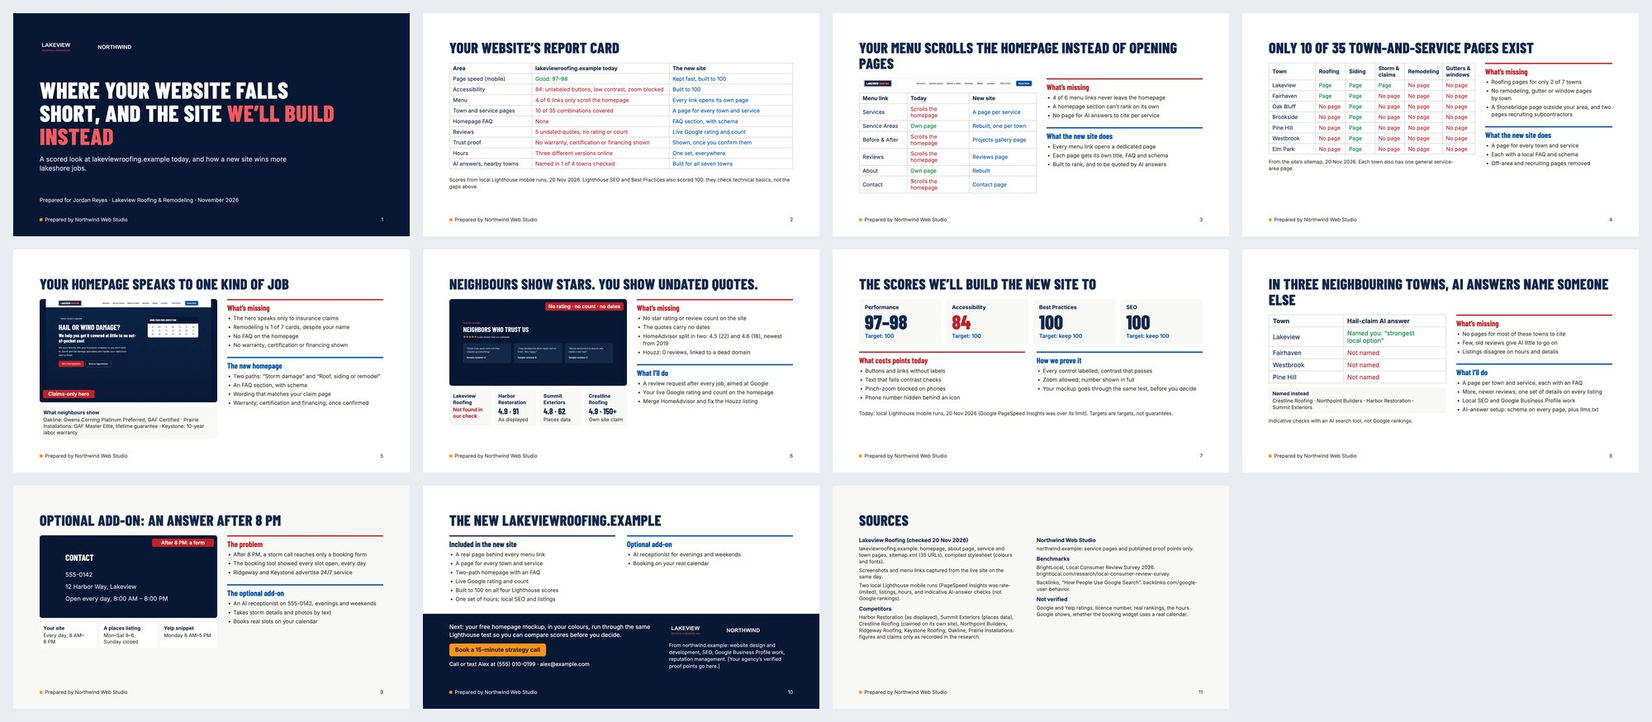
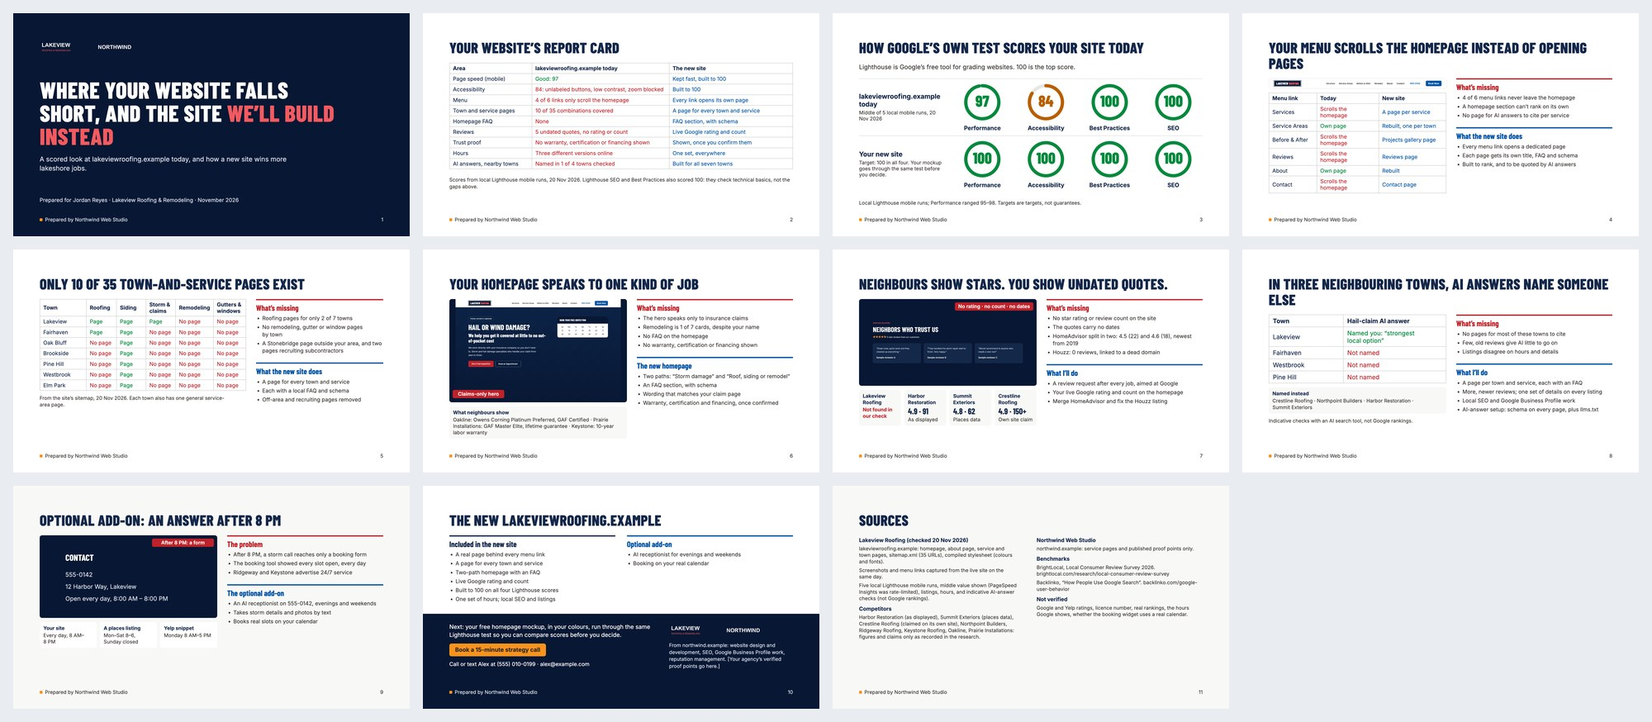
Scores slide moves to slide 3, as Lighthouse score rings
- Report card (slide 2) then scores (slide 3), so the numbers land in the
  first minute. Rings use Lighthouse colours; numbers are SVG text so they
  stay centred in any viewer.
- scripts/lighthouse_runs.py: run Lighthouse 3-5 times, report the middle
  score and range (Performance drifts between runs and days).
- Research step checks technical basics: robots.txt, sitemap, soft 404s,
  page titles, favicon, share image, business email.
- No visible placeholders on slides; reviews are shown by the agency and
  asked for by the owner.

diff --git a/reference/slides/scores.html b/reference/slides/scores.html
@@ -1,20 +1,13 @@
 <section id="scores">
 <div class="stack">
-<h2 class="title">The scores we’ll build the new site to</h2>
-<div class="score-row">
-<div class="score-card"><p class="sc-label">Performance</p><p class="sc-today">97–98</p><p class="sc-target">Target: 100</p></div>
-<div class="score-card"><p class="sc-label">Accessibility</p><p class="sc-today bad">84</p><p class="sc-target">Target: 100</p></div>
-<div class="score-card"><p class="sc-label">Best Practices</p><p class="sc-today">100</p><p class="sc-target">Target: keep 100</p></div>
-<div class="score-card"><p class="sc-label">SEO</p><p class="sc-today">100</p><p class="sc-target">Target: keep 100</p></div>
+<h2 class="title">How Google’s own test scores your site today</h2>
+<p class="small" style="font-size:30px">Lighthouse is Google’s free tool for grading websites. 100 is the top score.</p>
+<div>
+<div class="sc-row"><div class="sc-head"><p class="sc-name">lakeviewroofing.example today</p><p class="sc-sub">Middle of 5 local mobile runs, 20 Nov 2026</p></div><div class="ring"><svg width="190" height="190" viewBox="0 0 190 190"><circle cx="95" cy="95" r="80" fill="none" stroke="#E6E6E2" stroke-width="16"/><circle cx="95" cy="95" r="80" fill="none" stroke="#05893E" stroke-width="16" stroke-linecap="round" stroke-dasharray="487.6 502.7" transform="rotate(-90 95 95)"/><text x="95" y="97" text-anchor="middle" dominant-baseline="middle" font-family="Barlow Condensed, Arial Narrow, Arial, sans-serif" font-size="76" font-weight="800" fill="#05893E">97</text></svg><p class="ring-l">Performance</p></div><div class="ring"><svg width="190" height="190" viewBox="0 0 190 190"><circle cx="95" cy="95" r="80" fill="none" stroke="#E6E6E2" stroke-width="16"/><circle cx="95" cy="95" r="80" fill="none" stroke="#B85F00" stroke-width="16" stroke-linecap="round" stroke-dasharray="422.2 502.7" transform="rotate(-90 95 95)"/><text x="95" y="97" text-anchor="middle" dominant-baseline="middle" font-family="Barlow Condensed, Arial Narrow, Arial, sans-serif" font-size="76" font-weight="800" fill="#B85F00">84</text></svg><p class="ring-l">Accessibility</p></div><div class="ring"><svg width="190" height="190" viewBox="0 0 190 190"><circle cx="95" cy="95" r="80" fill="none" stroke="#E6E6E2" stroke-width="16"/><circle cx="95" cy="95" r="80" fill="none" stroke="#05893E" stroke-width="16" stroke-linecap="round" stroke-dasharray="502.7 502.7" transform="rotate(-90 95 95)"/><text x="95" y="97" text-anchor="middle" dominant-baseline="middle" font-family="Barlow Condensed, Arial Narrow, Arial, sans-serif" font-size="76" font-weight="800" fill="#05893E">100</text></svg><p class="ring-l">Best Practices</p></div><div class="ring"><svg width="190" height="190" viewBox="0 0 190 190"><circle cx="95" cy="95" r="80" fill="none" stroke="#E6E6E2" stroke-width="16"/><circle cx="95" cy="95" r="80" fill="none" stroke="#05893E" stroke-width="16" stroke-linecap="round" stroke-dasharray="502.7 502.7" transform="rotate(-90 95 95)"/><text x="95" y="97" text-anchor="middle" dominant-baseline="middle" font-family="Barlow Condensed, Arial Narrow, Arial, sans-serif" font-size="76" font-weight="800" fill="#05893E">100</text></svg><p class="ring-l">SEO</p></div></div>
+<div class="sc-row"><div class="sc-head"><p class="sc-name">Your new site</p><p class="sc-sub">Target: 100 in all four. Your mockup goes through the same test before you decide.</p></div><div class="ring"><svg width="190" height="190" viewBox="0 0 190 190"><circle cx="95" cy="95" r="80" fill="none" stroke="#E6E6E2" stroke-width="16"/><circle cx="95" cy="95" r="80" fill="none" stroke="#05893E" stroke-width="16" stroke-linecap="round" stroke-dasharray="502.7 502.7" transform="rotate(-90 95 95)"/><text x="95" y="97" text-anchor="middle" dominant-baseline="middle" font-family="Barlow Condensed, Arial Narrow, Arial, sans-serif" font-size="76" font-weight="800" fill="#05893E">100</text></svg><p class="ring-l">Performance</p></div><div class="ring"><svg width="190" height="190" viewBox="0 0 190 190"><circle cx="95" cy="95" r="80" fill="none" stroke="#E6E6E2" stroke-width="16"/><circle cx="95" cy="95" r="80" fill="none" stroke="#05893E" stroke-width="16" stroke-linecap="round" stroke-dasharray="502.7 502.7" transform="rotate(-90 95 95)"/><text x="95" y="97" text-anchor="middle" dominant-baseline="middle" font-family="Barlow Condensed, Arial Narrow, Arial, sans-serif" font-size="76" font-weight="800" fill="#05893E">100</text></svg><p class="ring-l">Accessibility</p></div><div class="ring"><svg width="190" height="190" viewBox="0 0 190 190"><circle cx="95" cy="95" r="80" fill="none" stroke="#E6E6E2" stroke-width="16"/><circle cx="95" cy="95" r="80" fill="none" stroke="#05893E" stroke-width="16" stroke-linecap="round" stroke-dasharray="502.7 502.7" transform="rotate(-90 95 95)"/><text x="95" y="97" text-anchor="middle" dominant-baseline="middle" font-family="Barlow Condensed, Arial Narrow, Arial, sans-serif" font-size="76" font-weight="800" fill="#05893E">100</text></svg><p class="ring-l">Best Practices</p></div><div class="ring"><svg width="190" height="190" viewBox="0 0 190 190"><circle cx="95" cy="95" r="80" fill="none" stroke="#E6E6E2" stroke-width="16"/><circle cx="95" cy="95" r="80" fill="none" stroke="#05893E" stroke-width="16" stroke-linecap="round" stroke-dasharray="502.7 502.7" transform="rotate(-90 95 95)"/><text x="95" y="97" text-anchor="middle" dominant-baseline="middle" font-family="Barlow Condensed, Arial Narrow, Arial, sans-serif" font-size="76" font-weight="800" fill="#05893E">100</text></svg><p class="ring-l">SEO</p></div></div>
 </div>
-<div class="two-blk">
-<div class="blk"><h3 class="blk-h">What costs points today</h3>
-<ul class="gap-list"><li>Buttons and links without labels</li><li>Text that fails contrast checks</li><li>Pinch-zoom blocked on phones</li><li>Phone number hidden behind an icon</li></ul></div>
-<div class="blk do"><h3 class="blk-h">How we prove it</h3>
-<ul class="gap-list"><li>Every control labelled; contrast that passes</li><li>Zoom allowed; number shown in full</li><li>Your mockup goes through the same test, before you decide</li></ul></div>
+<p class="small">Local Lighthouse mobile runs; Performance ranged 95–98. Targets are targets, not guarantees.</p>
 </div>
-<p class="small">Today: local Lighthouse mobile runs, 20 Nov 2026 (Google PageSpeed Insights was over its limit). Targets are targets, not guarantees.</p>
-</div>
-<div class="foot"><div class="mark"><div class="dot"></div><p class="ftxt">Prepared by Northwind Web Studio</p></div><p class="ftxt">7</p></div>
-<aside>These are the four Lighthouse scores Google’s own tooling uses. Today, on a phone, your site scores 97 to 98 for performance, 84 for accessibility, and 100 for best practices and SEO, from a local Lighthouse run because Google’s PageSpeed tool was over its limit that day. The new site is built to 100 across all four. The real gap is accessibility: buttons and links with no names, text that fails contrast, pinch-zoom switched off, and a phone number hidden behind an icon on mobile. Those fixes matter most to anyone reading on a small phone or with weaker eyesight. Rather than ask you to take my word for it, we’ll run your mockup through the same test and show you both sets of scores side by side. [Service note: accessibility work is part of web development and design, owner-confirmed.]</aside>
+<div class="foot"><div class="mark"><div class="dot"></div><p class="ftxt">Prepared by Northwind Web Studio</p></div><p class="ftxt">3</p></div>
+<aside>These are the four scores Google’s own Lighthouse test gives a website. On a phone, your site scores 97 for speed, which is good, and 100 for best practices and SEO. The gap is accessibility at 84: buttons and links with no names, text that fails contrast, pinch-zoom switched off, and a phone number hidden behind an icon. The new site is built to 100 in all four. Rather than ask you to take my word for it, we’ll run your mockup through the same test and show you both sets of scores side by side. [Service note: accessibility work is part of web development and design.]</aside>
 </section>

diff --git a/reference/deck.css b/reference/deck.css
@@ -106,10 +106,13 @@ section.cover { background: #081733; }
 .menu-table .new { color: #0053A5; }
 .nav-shot { width: 860px; height: 48px; object-fit: contain; background: #FFFFFF; border: 1px solid #DCDCD8; border-radius: 8px; }
 .wide-right { width: 616px; display: flex; flex-direction: column; gap: 32px; }
-.score-row { display: grid; grid-template-columns: 1fr 1fr 1fr 1fr; gap: 24px; }
-.score-card { background: #F8F8F7; border-radius: 12px; padding: 24px 28px; display: flex; flex-direction: column; gap: 6px; }
-.sc-label { font-size: 26px; font-weight: 700; color: #15284B; margin: 0; }
-.sc-today { font-family: 'Barlow Condensed', 'Arial Narrow', Arial, sans-serif; font-size: 96px; font-weight: 800; line-height: 1; color: #15284B; margin: 0; }
-.sc-today.bad { color: #BE222A; }
-.sc-target { font-size: 26px; font-weight: 600; color: #0053A5; margin: 0; }
+/* scores: today vs the new site, Lighthouse colours (90+ green, 50-89 orange, under 50 red).
+   The number is SVG <text>, not an overlaid <p>: overlays drift off-centre in some viewers. */
+.sc-row { display: flex; align-items: center; gap: 24px; padding: 18px 0; border-top: 2px solid #DCDCD8; }
+.sc-head { width: 440px; display: flex; flex-direction: column; gap: 8px; }
+.sc-name { font-size: 32px; font-weight: 700; color: #15284B; margin: 0; }
+.sc-sub { font-size: 24px; color: #34322D; margin: 0; }
+.ring { width: 290px; display: flex; flex-direction: column; align-items: center; gap: 14px; }
+.ring-l { font-size: 28px; font-weight: 700; color: #15284B; margin: 0; }
+.sc-none { flex: 1; height: 190px; box-sizing: border-box; border: 3px dashed #DCDCD8; border-radius: 16px; display: flex; align-items: center; justify-content: center; font-size: 44px; font-weight: 800; color: #BE222A; margin: 0; }
 .two-blk { display: grid; grid-template-columns: 1fr 1fr; gap: 56px; }

diff --git a/reference/slides/homepage.html b/reference/slides/homepage.html
@@ -14,6 +14,6 @@
 </div>
 </div>
 </div>
-<div class="foot"><div class="mark"><div class="dot"></div><p class="ftxt">Prepared by Northwind Web Studio</p></div><p class="ftxt">5</p></div>
+<div class="foot"><div class="mark"><div class="dot"></div><p class="ftxt">Prepared by Northwind Web Studio</p></div><p class="ftxt">6</p></div>
 <aside>Your company is called Lakeview Roofing, but the homepage opens on “Hail or Wind Damage?” and insurance claims, and remodeling is one of seven service cards. A homeowner planning a new roof, siding or a kitchen has to hunt. I’ll give the hero two equal paths: “Storm damage” and “Roof, siding or remodel”. Your claim page already says coverage and outcomes are “determined solely by your insurance carrier”, and that you are a contractor, not an insurance company or public adjuster; the homepage can use that same wording. That’s consistency, not legal advice. Neighbours also show proof you don’t yet: Oakline lists Owens Corning Platinum Preferred and GAF Certified, Prairie Installations lists GAF Master Elite and a lifetime guarantee, Keystone a 10-year labor warranty. There’s also no FAQ on the homepage; the new one gets an FAQ section with schema, so Google and AI answers can quote it directly. Jordan: which warranty, certifications and financing do you actually offer? I’ll add only what you confirm. [Service note: Website Design, on northwind.example.]</aside>
 </section>

diff --git a/reference/slides/reviews.html b/reference/slides/reviews.html
@@ -19,6 +19,6 @@
 </div>
 </div>
 </div>
-<div class="foot"><div class="mark"><div class="dot"></div><p class="ftxt">Prepared by Northwind Web Studio</p></div><p class="ftxt">6</p></div>
+<div class="foot"><div class="mark"><div class="dot"></div><p class="ftxt">Prepared by Northwind Web Studio</p></div><p class="ftxt">7</p></div>
 <aside>Homeowners compare stars before they call. Your neighbours show 4.9 from 91, 4.8 from 62 and 4.9 from 150 or more; your homepage shows five good quotes with no rating, no count and no dates, and we could not find your Google rating in our check. HomeAdvisor is split across two profiles with the newest reviews from 2019, and Houzz shows 0 reviews and points to an old domain, which now redirects to a domain-sale page. BrightLocal’s 2026 survey: 47% of consumers won’t use a business with fewer than 20 reviews, and 74% only care about reviews from the last three months. The fix: a review request after every job, aimed at Google; your live rating and count on the site; HomeAdvisor merged and Houzz fixed. [Service notes, not for the slide: Reputation Management, Google My Business Optimization and Website Design are listed on northwind.example. Competitor figures: Harbor Restoration as displayed, Summit Exteriors from places data, Crestline as claimed on its own site.]</aside>
 </section>

diff --git a/reference/slides/coverage.html b/reference/slides/coverage.html
@@ -23,6 +23,6 @@
 </div>
 </div>
 </div>
-<div class="foot"><div class="mark"><div class="dot"></div><p class="ftxt">Prepared by Northwind Web Studio</p></div><p class="ftxt">4</p></div>
+<div class="foot"><div class="mark"><div class="dot"></div><p class="ftxt">Prepared by Northwind Web Studio</p></div><p class="ftxt">5</p></div>
 <aside>You serve seven towns and five kinds of work: that’s 35 combinations a homeowner might search, like “roof repair Westbrook” or “kitchen remodel Pine Hill”. Your sitemap covers 10 of them. Roofing pages exist only for Lakeview and Fairhaven; the other five towns only have siding-repair pages; and there are no town pages for remodeling, gutters or windows, even though remodeling is in your company name. There’s also a Stonebridge page, which is in another county, far outside the lakeshore, and two pages recruiting roofing subcontractors next to your “no subcontractor roulette” promise. The new site gives every town and service its own page, each with a local FAQ and schema, and drops the off-area and recruiting pages. [Service notes: Website Design and SEO, both on northwind.example.]</aside>
 </section>

diff --git a/reference/slides/sources.html b/reference/slides/sources.html
@@ -6,7 +6,7 @@
 <p class="src-h">Lakeview Roofing (checked 20 Nov 2026)</p>
 <p class="src">lakeviewroofing.example: homepage, about page, service and town pages, sitemap.xml (35 URLs), compiled stylesheet (colours and fonts).</p>
 <p class="src">Screenshots and menu links captured from the live site on the same day.</p>
-<p class="src">Two local Lighthouse mobile runs (PageSpeed Insights was rate-limited), listings, hours, and indicative AI-answer checks (not Google rankings).</p>
+<p class="src">Five local Lighthouse mobile runs, middle value shown (PageSpeed Insights was rate-limited), listings, hours, and indicative AI-answer checks (not Google rankings).</p>
 <p class="src-h">Competitors</p>
 <p class="src">Harbor Restoration (as displayed), Summit Exteriors (places data), Crestline Roofing (claimed on its own site), Northpoint Builders, Ridgeway Roofing, Keystone Roofing, Oakline, Prairie Installations: figures and claims only as recorded in the research.</p>
 </div>

diff --git a/reference/slides/menu.html b/reference/slides/menu.html
@@ -22,6 +22,6 @@
 </div>
 </div>
 </div>
-<div class="foot"><div class="mark"><div class="dot"></div><p class="ftxt">Prepared by Northwind Web Studio</p></div><p class="ftxt">3</p></div>
+<div class="foot"><div class="mark"><div class="dot"></div><p class="ftxt">Prepared by Northwind Web Studio</p></div><p class="ftxt">4</p></div>
 <aside>As we discussed, look at your menu. Services, Before and After, Reviews and Contact don’t open pages: they jump down to a section of the homepage. Only Service Areas and About are real pages. Google ranks pages, not sections, so a homeowner searching for roof repair or reviews lands on a long homepage instead of a page built for that question, and AI answers have nothing specific to quote. On the new site every link in the menu goes to its own page, each with its own title, FAQ and schema. [Service note: Website Design and SEO, both on northwind.example.]</aside>
 </section>

diff --git a/reference/slides/report.html b/reference/slides/report.html
@@ -3,7 +3,7 @@
 <h2 class="title">Your website’s report card</h2>
 <table class="report">
 <tr><th style="width:24%">Area</th><th style="width:40%">lakeviewroofing.example today</th><th style="width:36%">The new site</th></tr>
-<tr><td>Page speed (mobile)</td><td class="ok">Good: 97–98</td><td class="new">Kept fast, built to 100</td></tr>
+<tr><td>Page speed (mobile)</td><td class="ok">Good: 97</td><td class="new">Kept fast, built to 100</td></tr>
 <tr><td>Accessibility</td><td class="bad">84: unlabeled buttons, low contrast, zoom blocked</td><td class="new">Built to 100</td></tr>
 <tr><td>Menu</td><td class="bad">4 of 6 links only scroll the homepage</td><td class="new">Every link opens its own page</td></tr>
 <tr><td>Town and service pages</td><td class="bad">10 of 35 combinations covered</td><td class="new">A page for every town and service</td></tr>

diff --git a/scripts/lighthouse_runs.py b/scripts/lighthouse_runs.py
@@ -1,0 +1,49 @@
+#!/usr/bin/env python3
+"""Run Lighthouse (mobile) several times and print the middle score and range per category.
+
+usage: python3 -I lighthouse_runs.py <url> [runs=5] [out_dir=lighthouse]
+       python3 -I lighthouse_runs.py --self-test
+
+Scores drift between runs and between days, so the deck shows the middle value
+and states the range. Set LIGHTHOUSE to a lighthouse CLI path to skip npx.
+"""
+import json, os, shutil, statistics, subprocess, sys
+
+CATS = ["performance", "accessibility", "best-practices", "seo"]
+
+
+def summarize(runs):
+    """runs: list of {category: score 0-100}. Returns {category: (middle, low, high)}."""
+    return {c: (round(statistics.median(r[c] for r in runs)), min(r[c] for r in runs), max(r[c] for r in runs))
+            for c in CATS if all(r.get(c) is not None for r in runs)}
+
+
+def run_once(url, path):
+    lh = os.environ.get("LIGHTHOUSE")
+    cmd = (["node", lh] if lh else [shutil.which("npx") or "npx", "-y", "lighthouse"]) + [
+        url, "--quiet", "--chrome-flags=--headless=new", "--output=json", f"--output-path={path}",
+        "--only-categories=" + ",".join(CATS)]
+    subprocess.run(cmd, capture_output=True)
+    d = json.load(open(path))
+    if d.get("runtimeError"):
+        sys.exit(f"Lighthouse could not load {url}: {d['runtimeError'].get('message')}")
+    return {k: round(v["score"] * 100) for k, v in d["categories"].items() if v["score"] is not None}
+
+
+if sys.argv[1:] == ["--self-test"]:
+    s = summarize([{c: 60 for c in CATS}, {c: 80 for c in CATS}, {c: 70 for c in CATS}])
+    assert s["performance"] == (70, 60, 80), s
+    print("ok")
+    sys.exit()
+
+url = sys.argv[1]
+n = int(sys.argv[2]) if len(sys.argv) > 2 else 5
+out = sys.argv[3] if len(sys.argv) > 3 else "lighthouse"
+os.makedirs(out, exist_ok=True)
+runs = []
+for i in range(n):
+    runs.append(run_once(url, os.path.join(out, f"run-{i + 1}.json")))
+    print(f"run {i + 1}: {runs[-1]}", file=sys.stderr)
+print(json.dumps({"url": url, "runs": n,
+                  "scores": {c: {"middle": m, "low": lo, "high": hi} for c, (m, lo, hi) in summarize(runs).items()}},
+                 indent=2))

diff --git a/SKILL.md b/SKILL.md
@@ -11,7 +11,7 @@ You build a sales deck for a web agency pitching a **new website** to a local bu
 
 - `agency.md` in `<skill-dir>` holds the agency's name, presenter, contact details, accent colour and proof points. If it's missing, copy `agency.example.md`, ask the user for the real values, and do not publish a deck with the example's placeholder agency.
 - `reference/` is a finished 11-slide deck for a **fictional** roofing company (`deck.json`, `deck.css`, `slides/*.html`). Use its CSS and markup as the template. Its `/_blob/ASSET_*` image names are placeholders: replace them with your own uploads.
-- `scripts/cdp-shot.mjs` captures section screenshots; `scripts/render_check.py` renders the deck locally so you can catch overflow before publishing.
+- `scripts/cdp-shot.mjs` captures section screenshots; `scripts/lighthouse_runs.py` runs Lighthouse several times and reports the middle score and range; `scripts/render_check.py` renders the deck locally so you can catch overflow before publishing.
 
 ## What the deck must do
 
@@ -30,7 +30,7 @@ You build a sales deck for a web agency pitching a **new website** to a local bu
    ```
    Anything the notes say the agency already promised the prospect ("every menu link gets its own page", "we'll add an FAQ", "keep his colours") must show up in the deck.
 3. The prospect owner's first name, for "Prepared for …". Never invent staff names.
-4. Which offers are confirmed. An unconfirmed offer stays as a visible `[CONFIRM: …]` placeholder.
+4. Which offers are confirmed. An unconfirmed offer stays off the slides: list it in the speaker notes and under "Still to confirm" on the sources slide.
 
 ## Step 1: research the live site (facts only)
 
@@ -39,7 +39,8 @@ Keep a fact sheet with the source of every fact. Work in a scratch folder.
 - **Homepage HTML** (`curl -sSL <url>`): menu links in `<header>` (how many are `#anchors` that only scroll the homepage vs real pages), H1 and hero wording, whether the phone number shows digits or only an icon, FAQ or `FAQPage` schema, the reviews block (rating? count? dates?), the booking widget (how many copies), hours, and trust proof (warranty, manufacturer certification, financing, BBB, licence).
 - **Sitemap** (`curl -sSL <url>/sitemap.xml | grep -oE '<loc>[^<]+'`): build the **town × service grid** showing which combinations have a page, plus odd pages (out-of-area towns, recruiting pages).
 - **Brand:** exact hex colours from the compiled CSS (`:root` variables, button and CTA classes, `<meta name="theme-color">`), fonts from the Google Fonts `<link>`, and the logo URL.
-- **Scores:** Lighthouse mobile, twice. If Google PageSpeed Insights is rate-limited, run Lighthouse locally and label every score "local Lighthouse mobile run". If SEO or Best Practices score 100, say so: they're technical checks, so the deck must not call them weak.
+- **Scores:** Lighthouse mobile, 3–5 runs: `python3 -I <skill-dir>/scripts/lighthouse_runs.py <url> 5`. Show the middle value and state the range: Performance can swing 20 points between runs and between days. Label every score "local Lighthouse mobile run" with the date, and rerun just before presenting. If SEO or Best Practices score 100, say so: they're technical checks, so the deck must not call them weak.
+- **Technical basics** (each one is a report-card row when it fails): `/robots.txt` and `/sitemap.xml` (a 200 that returns the homepage HTML means missing), a made-up URL (a 200 instead of 404 means missing pages report "OK" to search engines), a unique `<title>` per page, `<link rel="icon">` or `/favicon.ico` (HTML instead of an image means no tab icon), `og:image` (shared links show no photo), the business email (a Gmail or Yahoo address instead of their own domain), and whether the raw HTML has the content or only an empty app container.
 - **Listings and reviews:** Google rating and count if findable, plus Yelp, Angi/HomeAdvisor, Houzz, BBB and Facebook. Note conflicting hours. Never invent a rating: if you can't find one, write "Not found in our check".
 - **Competitors (3–6 local):** displayed rating and count with the source labelled ("As displayed", "Places data", "Own site claim"), plus 24/7 claims, warranties and certifications.
 - **AI-answer check:** ask an AI search tool for the service in the home town and in 3 neighbouring towns, and record who gets named. Always label it "Indicative checks, not Google rankings".
@@ -89,18 +90,20 @@ Frames worth having: desktop hero, mobile hero with header and sticky bar, menu 
 | # | id | Title pattern (uppercase, at most 2 lines at 72px) | Visual |
 |---|----|------|------|
 | 1 | cover | "Where your website falls short, and the site we'll build instead" | Dark brand background, both logos, "Prepared for <Owner> · <Company> · <Month Year>" |
-| 2 | report | "Your website's report card" | Table with columns Area / today / the new site. Today is red, or green for a true pass; the new site is blue. 8–10 rows: speed, accessibility, menu, town × service pages, FAQ, reviews, trust proof, hours, AI answers |
-| 3 | menu | "Your menu scrolls the homepage instead of opening pages" (when true) | Menu-bar screenshot + table: link / today / new site |
-| 4 | coverage | "Only N of M town-and-service pages exist" | Grid table of towns × services, "Page" (green) / "No page" (red) |
-| 5 | homepage | The real hero problem, e.g. "Your homepage speaks to one kind of job" | Desktop hero screenshot with a red flag + strip of what competitors show |
-| 6 | reviews | e.g. "Neighbours show stars. You show undated quotes." | Reviews-block screenshot + strip: prospect vs 3 competitors, each source labelled |
-| 7 | scores | "The scores we'll build the new site to" | 4 cards (Performance, Accessibility, Best Practices, SEO): today vs "Target: 100"; what costs points; "your mockup goes through the same test" |
+| 2 | report | "Your website's report card" | Table with columns Area / today / the new site. Today is red, or green for a true pass; the new site is blue. 10–12 rows, one line each: speed, accessibility, menu, town × service pages, FAQ, reviews, trust proof, hours, AI answers, plus every failed technical basic |
+| 3 | scores | "How Google's own test scores your site today" | Two rows of 4 score rings (Performance, Accessibility, Best Practices, SEO): the live site today, then the new site (measured mockup, or "Target: 100"). Ring and number in Lighthouse colours: 90+ green, 50–89 orange, under 50 red |
+| 4 | menu | "Your menu scrolls the homepage instead of opening pages" (when true) | Menu-bar screenshot + table: link / today / new site |
+| 5 | coverage | "Only N of M town-and-service pages exist" | Grid table of towns × services, "Page" (green) / "No page" (red) |
+| 6 | homepage | The real hero problem, e.g. "Your homepage speaks to one kind of job" | Desktop hero screenshot with a red flag + strip of what competitors show |
+| 7 | reviews | e.g. "Neighbours show stars. You show undated quotes." | Reviews-block screenshot + strip: prospect vs 3 competitors, each source labelled |
 | 8 | nearby | "In N neighbouring towns, AI answers name someone else" | Table town / AI answer + "Named instead" strip |
 | 9 | addon | "Optional add-on: …" | Evidence screenshot + problem / optional add-on |
 | 10 | offer | "The new <domain>" | Included in the new site / Optional add-on; dark band with the next step, CTA button, presenter contact, both logos, agency proof |
 | 11 | sources | "Sources" | Pages checked and when, competitors, agency pages, benchmarks, "Not verified" |
 
-Slides 3–9 share one layout. The left side (860px) holds a screenshot or table. The right side holds two blocks with 3–4 short bullets each: a red-ruled **"What's missing"** and a blue-ruled **"What the new site does"**. Drop any slide whose gap doesn't exist for this prospect, and add one if the research turns up a bigger gap.
+The report card and the scores come first so the owner sees the whole picture, and the numbers, in the first minute. Copy the score rings from `reference/slides/scores.html`: the number is SVG `<text>`, because a `<p>` laid over the ring drifts off-centre in some viewers. The arc length is `2π·80·score/100`.
+
+Slides 4–9 share one layout. The left side (860px) holds a screenshot or table. The right side holds two blocks with 3–4 short bullets each: a red-ruled **"What's missing"** and a blue-ruled **"What the new site does"**. Drop any slide whose gap doesn't exist for this prospect, and add one if the research turns up a bigger gap.
 
 ### Copy rules
 
@@ -111,6 +114,8 @@ Slides 3–9 share one layout. The left side (860px) holds a screenshot or table
 - **Money:** no pricing, budgets or lost-revenue maths.
 - **Legal wording:** for insurance or legal copy, only suggest "match the wording on your own <claim/terms> page". Never cite statutes or call anything illegal, non-compliant or risky.
 - **Reviews and proof:** no negative review quotes on slides. Never invent testimonials, certifications, warranties, financing, awards or client names. The prospect's trust items appear as "once you confirm them".
+- **Who does what with reviews:** the agency shows the prospect's reviews on the site and sets up the profile; asking customers for reviews stays with the owner. Never write that the agency will contact the prospect's customers.
+- **No visible placeholders:** no grey "your photo here" boxes, `[CONFIRM]` tags or "TBD" on a slide. A photo slot gets the prospect's own photo, or a generated image labelled "Illustrative image" on the slide and in the sources. Anything unconfirmed goes in the speaker notes and the sources slide.
 - **Agency proof:** only from `agency.md`'s Proof list. Items under "Offered but not published" stay in the speaker notes.
 - **Style:**
   - no eyebrow or kicker labels, emoji, decorative icons, stock photos, purple, tilted cards or animations
@@ -133,7 +138,7 @@ Sometimes the "URL" is a Facebook page, a Google Business Profile or a directory
 
 **If a homepage mockup already exists** (see `agency.md`'s mockup workflow), it's the strongest evidence you have:
 - Screenshot it on desktop and on a phone.
-- Run Lighthouse on its live URL twice and show those measured scores, labelled with the date and "run locally".
+- Run `lighthouse_runs.py` on its live URL and show those measured scores, labelled with the date and "run locally".
 - Be honest about its own gaps (a single page, a menu that only scrolls, no FAQ yet) by listing them under "Added in the full site".
 
 If there's no mockup, the scores slide shows targets instead.
@@ -143,13 +148,13 @@ If there's no mockup, the scores slide shows targets instead.
 | # | id | Title pattern | Visual |
 |---|----|------|------|
 | 1 | cover | "You do the work. Online, it's hard to find." | Dark panel, both logos, one of their own job photos (from their social page) on the right |
-| 2 | report | "<Name> online today, scored" | Rows: website (none), social page, searches nearby, town × service pages (0 of N), reviews, estimate request, hours, location, plus one true pass (e.g. BBB rating) |
-| 3 | social | "Your Facebook page asks visitors to log in first" (when true) | Logged-out screenshot + strip: followers, posts, what phones see |
-| 4 | search | "Search for <service> nearby, and competitors show up instead" | Table: town / what came up / the prospect ("Via BBB listing only", "Not named") |
-| 5 | coverage | "0 of N town-and-service pages exist" | Towns × services grid, every cell "No page"; towns from their listing, marked "to confirm" |
-| 6 | reviews | "Competitors show their reviews. <Name> has none to show yet." | Card grid: the prospect vs 4–5 competitors, sources labelled |
-| 7 | mockup | "Your new homepage is already built" | Desktop + phone screenshots of the mockup; "What's on it" / "Added in the full site" |
-| 8 | scores | "Your new homepage already scores 100" (only if measured) | 4 score cards from the live mockup; "Today: no website to score" |
+| 2 | report | "<Name> online today, scored" | Rows: website (none), social page, searches nearby, town × service pages (0 of N), reviews, photos, estimate request, hours, location, business email, plus one true pass (e.g. BBB rating) |
+| 3 | scores | "Your new homepage already scores 100" (only if measured) | Top row: one dashed panel, "No website, nothing to score" (not four empty rings). Bottom row: 4 score rings from the live mockup |
+| 4 | social | "Your Facebook page asks visitors to log in first" (when true) | Logged-out screenshot + strip: followers, posts, what phones see |
+| 5 | search | "Search for <service> nearby, and competitors show up instead" | Table: town / what came up / the prospect ("Via BBB listing only", "Not named") |
+| 6 | coverage | "0 of N town-and-service pages exist" | Towns × services grid, every cell "No page"; towns from their listing, marked "to confirm" |
+| 7 | reviews | "Competitors show their reviews. <Name> has none to show yet." | Card grid: the prospect vs 4–5 competitors, sources labelled |
+| 8 | mockup | "Your new homepage is already built" | Desktop + phone screenshots of the mockup; "What's on it" / "Added in the full site" |
 | 9 | addon | "Optional add-on: an answer while you're on a job" | Their phone screenshot + how customers reach them today |
 | 10 | offer | "The new <Name> website" | Included / Optional add-on; next step: walk through the homepage, confirm towns, hours and address |
 | 11 | sources | "Sources" | What was checked, how, and what isn't verified |
@@ -173,7 +178,7 @@ Skip the menu, sitemap and live-site Lighthouse slides: there's nothing to measu
    - the link, and that the deck is private until shared
    - that it downloads as PDF or PPTX
    - what was verified and what was left out
-   - any `[CONFIRM]` placeholders still in the deck
+   - what is still to confirm with the prospect
 
 ## After the deck: the mockup
 

diff --git a/README.md b/README.md
@@ -28,7 +28,7 @@ A [Claude Code](https://claude.com/claude-code) skill for web agencies. It audit
    - which town × service pages exist, from the sitemap
    - FAQ and schema, the reviews block, booking widgets, hours, trust proof
    - brand colours and fonts from the compiled CSS
-   - Lighthouse scores, listings, competitors, and indicative AI-answer checks
+   - Lighthouse scores (3–5 runs, middle value), technical basics (sitemap, robots.txt, titles, favicon, share image, business email), listings, competitors, and indicative AI-answer checks
 2. **Captures evidence.** Headless Chrome screenshots of the hero, the mobile header, the reviews block and the footer hours, cropped to the exact section (`scripts/cdp-shot.mjs`).
 3. **Takes notes in any form.** Typed notes, or voice notes transcribed locally with whisper.cpp. Promises already made to the prospect end up in the deck.
 4. **Builds the deck in the prospect's own brand:** their colours, their fonts, their logo. Your agency's accent appears only on the footer mark and the call-to-action.
@@ -86,6 +86,7 @@ SKILL.md              the playbook Claude follows
 agency.example.md     template for your private agency.md
 reference/            finished example deck: deck.json, deck.css, slides/*.html
 scripts/cdp-shot.mjs  section screenshots over the Chrome DevTools Protocol
+scripts/lighthouse_runs.py  Lighthouse several times: middle score and range
 scripts/render_check.py  local render + contact sheets for overflow checks
 examples/             fictional site and assets used to render the example
 docs/                 the images in this README
